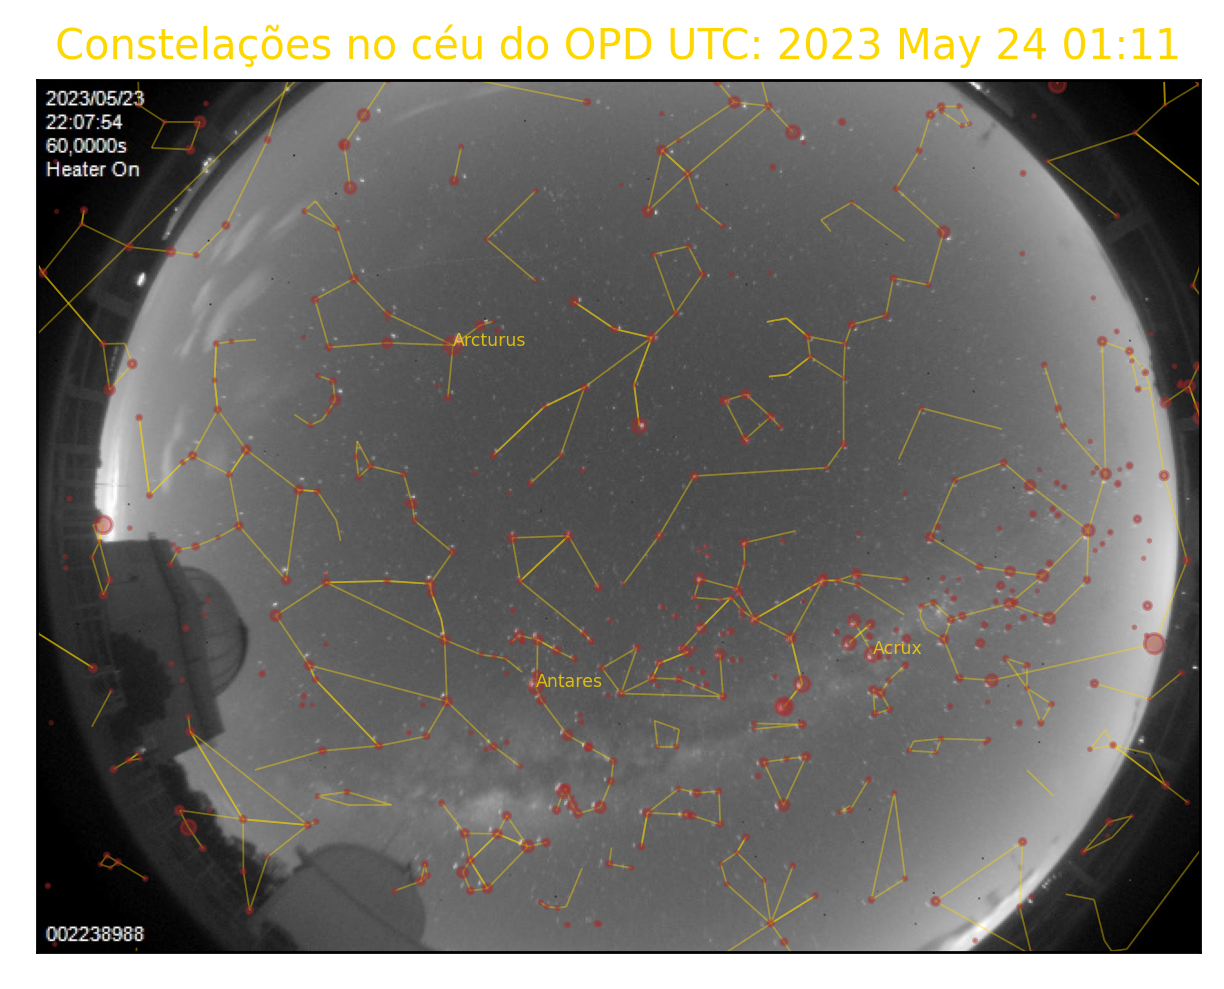
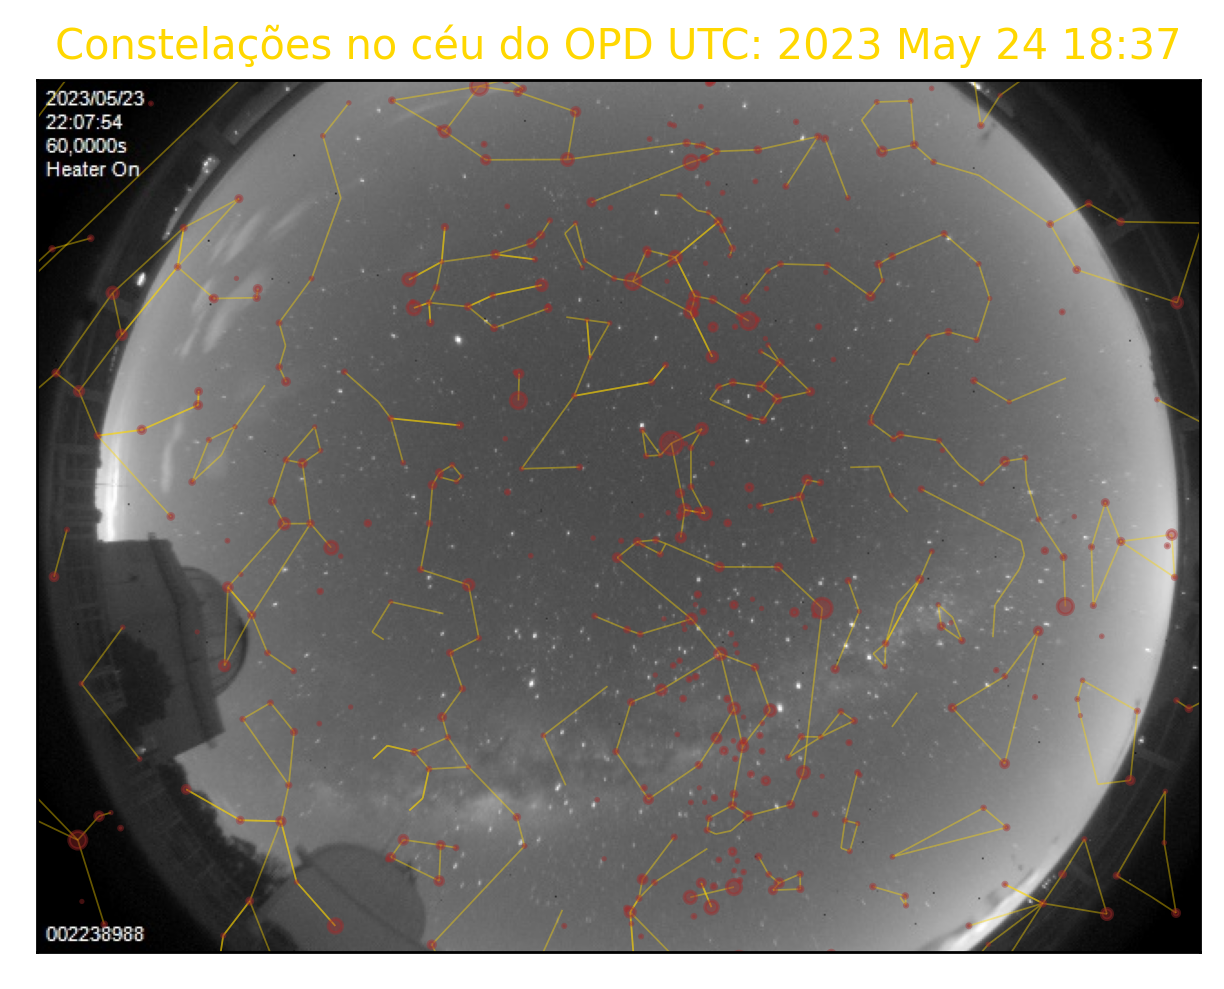
added constellations names

diff --git a/skymap.py b/skymap.py
@@ -8,6 +8,7 @@ from matplotlib.offsetbox import OffsetImage, AnnotationBbox
 
 from skyfield.api import Star, load, wgs84
 from skyfield.data import hipparcos, stellarium
+from skyfield.api import load_constellation_names
 from skyfield.projections import build_stereographic_projection
 from datetime import datetime, timedelta
 from pytz import timezone
@@ -25,13 +26,42 @@ class SkyMap():
                                 '/skycultures/western_SnT/constellationship.fab')        
         # Hipparcos catalog
         with load.open('hip_main.dat') as f:
-            self.stardata = hipparcos.load_dataframe(f)        
+            self.stardata = hipparcos.load_dataframe(f)  
 
+        
         with load.open(self.url_constellations) as f:
             self.constellations = stellarium.parse_constellations(f)
-        
+            
         # An ephemeris from the JPL provides Sun and Earth positions.
         self.eph = load('de421.bsp')
+    
+    def constelattions_name_coord(self, lst):
+        """
+        Get the first star coordinates of the constellation, 
+        converts to cartesian and adds to a dic with its name
+        """
+        constellation_coord = {}
+        d = dict(load_constellation_names())
+        for stars in self.constellations:
+            star_hip = [coord[0] for coord in stars[1]]                
+            try:
+                ra_total = 0
+                dec_total = 0
+                for star in star_hip:
+                    ra_total += self.stardata.loc[star].ra_hours
+                    dec_total += self.stardata.loc[star].dec_degrees
+                    self.stardata.loc[star].dec_degrees
+
+                # Calc mean Right Ascension and mean declination    
+                ra_mean = ra_total/len(star_hip)
+                dec_mean = dec_total/len(star_hip)
+                # convert to cartesian to insert on Image
+                az, elev = utils.get_az_alt(ra_mean, dec_mean, lst, -22.5344)
+                x, y = utils.pol2cart(90-elev, az, self.allsky_angle)
+                constellation_coord[d[stars[0]]] = (x, y)    
+            except:
+                pass
+        return constellation_coord
             
     def reload_eph(self):
         t = os.path.getmtime('de421.bsp')
@@ -53,18 +83,17 @@ class SkyMap():
 
     def generate(self, allsky_img, skymap_img):
         while True:
-            # self.reload_eph()
             # Timezone
             AMS = timezone('America/Sao_Paulo')
             ts = load.timescale()
 
             if 6<datetime.now().hour<18:
-                #AllSky offline image
+                #AllSky at OPD is offline
                 is_online = False
-                time_at = ts.from_datetime(AMS.localize(datetime(2022, 7, 4, 23, 36, 17)))
             else:
                 is_online = True
-                time_at = ts.from_datetime(AMS.localize(datetime.now()))
+
+            time_at = ts.from_datetime(AMS.localize(datetime.now()))
             
             opd_local = wgs84.latlon(-22.5344, -45.5825, elevation_m=1800).at(time_at)
 
@@ -84,6 +113,7 @@ class SkyMap():
                 #Adjust fish-eye Allsky distotion                
                 azimuth, elevation = utils.get_az_alt(self.stardata.ra_hours,self.stardata.dec_degrees,lst,-22.5344)
                 self.stardata['x'], self.stardata['y'] = utils.pol2cart(90-elevation, azimuth, self.allsky_angle)
+                
                 # Create a True/False mask marking the stars bright enough to be
                 # included in our plot.  And go ahead and compute how large their
                 # markers will be on the plot.
@@ -120,23 +150,28 @@ class SkyMap():
                 plt.xlim(-320, 320)
                 plt.ylim(-240, 240)
 
+                #insert coordinates to insert it on image
+                constellations_coord = self.constelattions_name_coord(lst)
+                for constellation in constellations_coord:                    
+                    x, y = constellations_coord[constellation]                    
+                    if (-280 < x < 280) and (-220 < y < 220) and is_online:                        
+                        plt.text(x, y, constellation, fontsize=4, color='gold', alpha=0.5)
+
                 # get planets and bright stars names/coordinates
                 planets, stars = getEphem.astro_coordinates(self.allsky_angle)  
-                for planet in planets:                    
-                    x, y = planets[planet]
-                    arr_img = plt.imread(f"icons/{planet}.png")
-                    if (-280 < x < 280) and (-220 < y < 220) and is_online:
-                        im = OffsetImage(arr_img, zoom=.1)
-                        ab = AnnotationBbox(im, (x, y), frameon=False)
-                        ax.add_artist(ab)
-                        # plt.text(x, y, planet, fontsize=5, color='gold', alpha=0.8)
-                
-                for star in stars:                    
-                    x, y = stars[star]
-                    if (-280 < x < 280) and (-220 < y < 220) and is_online:
-                        plt.text(x, y, star, fontsize=5, color='gold', alpha=0.8)
+                valid_planets = [(planet, planets[planet]) for planet in planets if (-280 < planets[planet][0] < 280) and (-220 < planets[planet][1] < 220) and is_online]
+                valid_stars = [(star, stars[star]) for star in stars if (-280 < stars[star][0] < 280) and (-220 < stars[star][1] < 220) and is_online]
 
-                #plt.show()
+                for planet, (x, y) in valid_planets:
+                    arr_img = plt.imread(f"icons/{planet}.png")
+                    im = OffsetImage(arr_img, zoom=.1)
+                    ab = AnnotationBbox(im, (x, y), frameon=False)
+                    ax.add_artist(ab)
+
+                for star, (x, y) in valid_stars:
+                    plt.text(x, y, star, fontsize=5, color='gold', alpha=0.8)
+
+
                 print(f"Creating map {time_at.utc_strftime('%H:%M')}")
                 fig.savefig(skymap_img, bbox_inches='tight', transparent=True, dpi=250)
                 plt.clf()

diff --git a/utils.py b/utils.py
@@ -102,15 +102,20 @@ def get_az_alt(ra, dec, lst, latitude):
 def pol2cart(rho, phi, allsky_angle):
     """Convert polar coordinates to cartesian"""
     """rho: zenith  |   phi: azimuth"""
-    x = rho * np.cos(np.radians(phi+allsky_angle))
-    y = rho * np.sin(np.radians(phi+allsky_angle))
+
     # x=f*rho*cos(A-?)+x0
     # y=f*rho*sin(A-?)+y0
-    #f = 3.365 piexels/degree
-    # z = zenith estrela
-    # A = azimuth estrela
-    # ? = rotacao da camera
-    # x0 e y0 = coordenadas do zenith da camera
-    x=3.365*x+8.5
-    y=3.365*y-5
+    # f = 3.365 piexels/degree
+    # rho = star zenith
+    # phi = star azimuth
+    # allsky_angle = camera rotation
+    # x0 e y0 = coordinates of cameras zenith
+
+    x = rho * np.cos(np.radians(phi+allsky_angle))
+    y = rho * np.sin(np.radians(phi+allsky_angle))
+    x0 = 8.5
+    y0 = -5
+    
+    x=3.365*x+x0
+    y=3.365*y+y0
     return(x, y)
